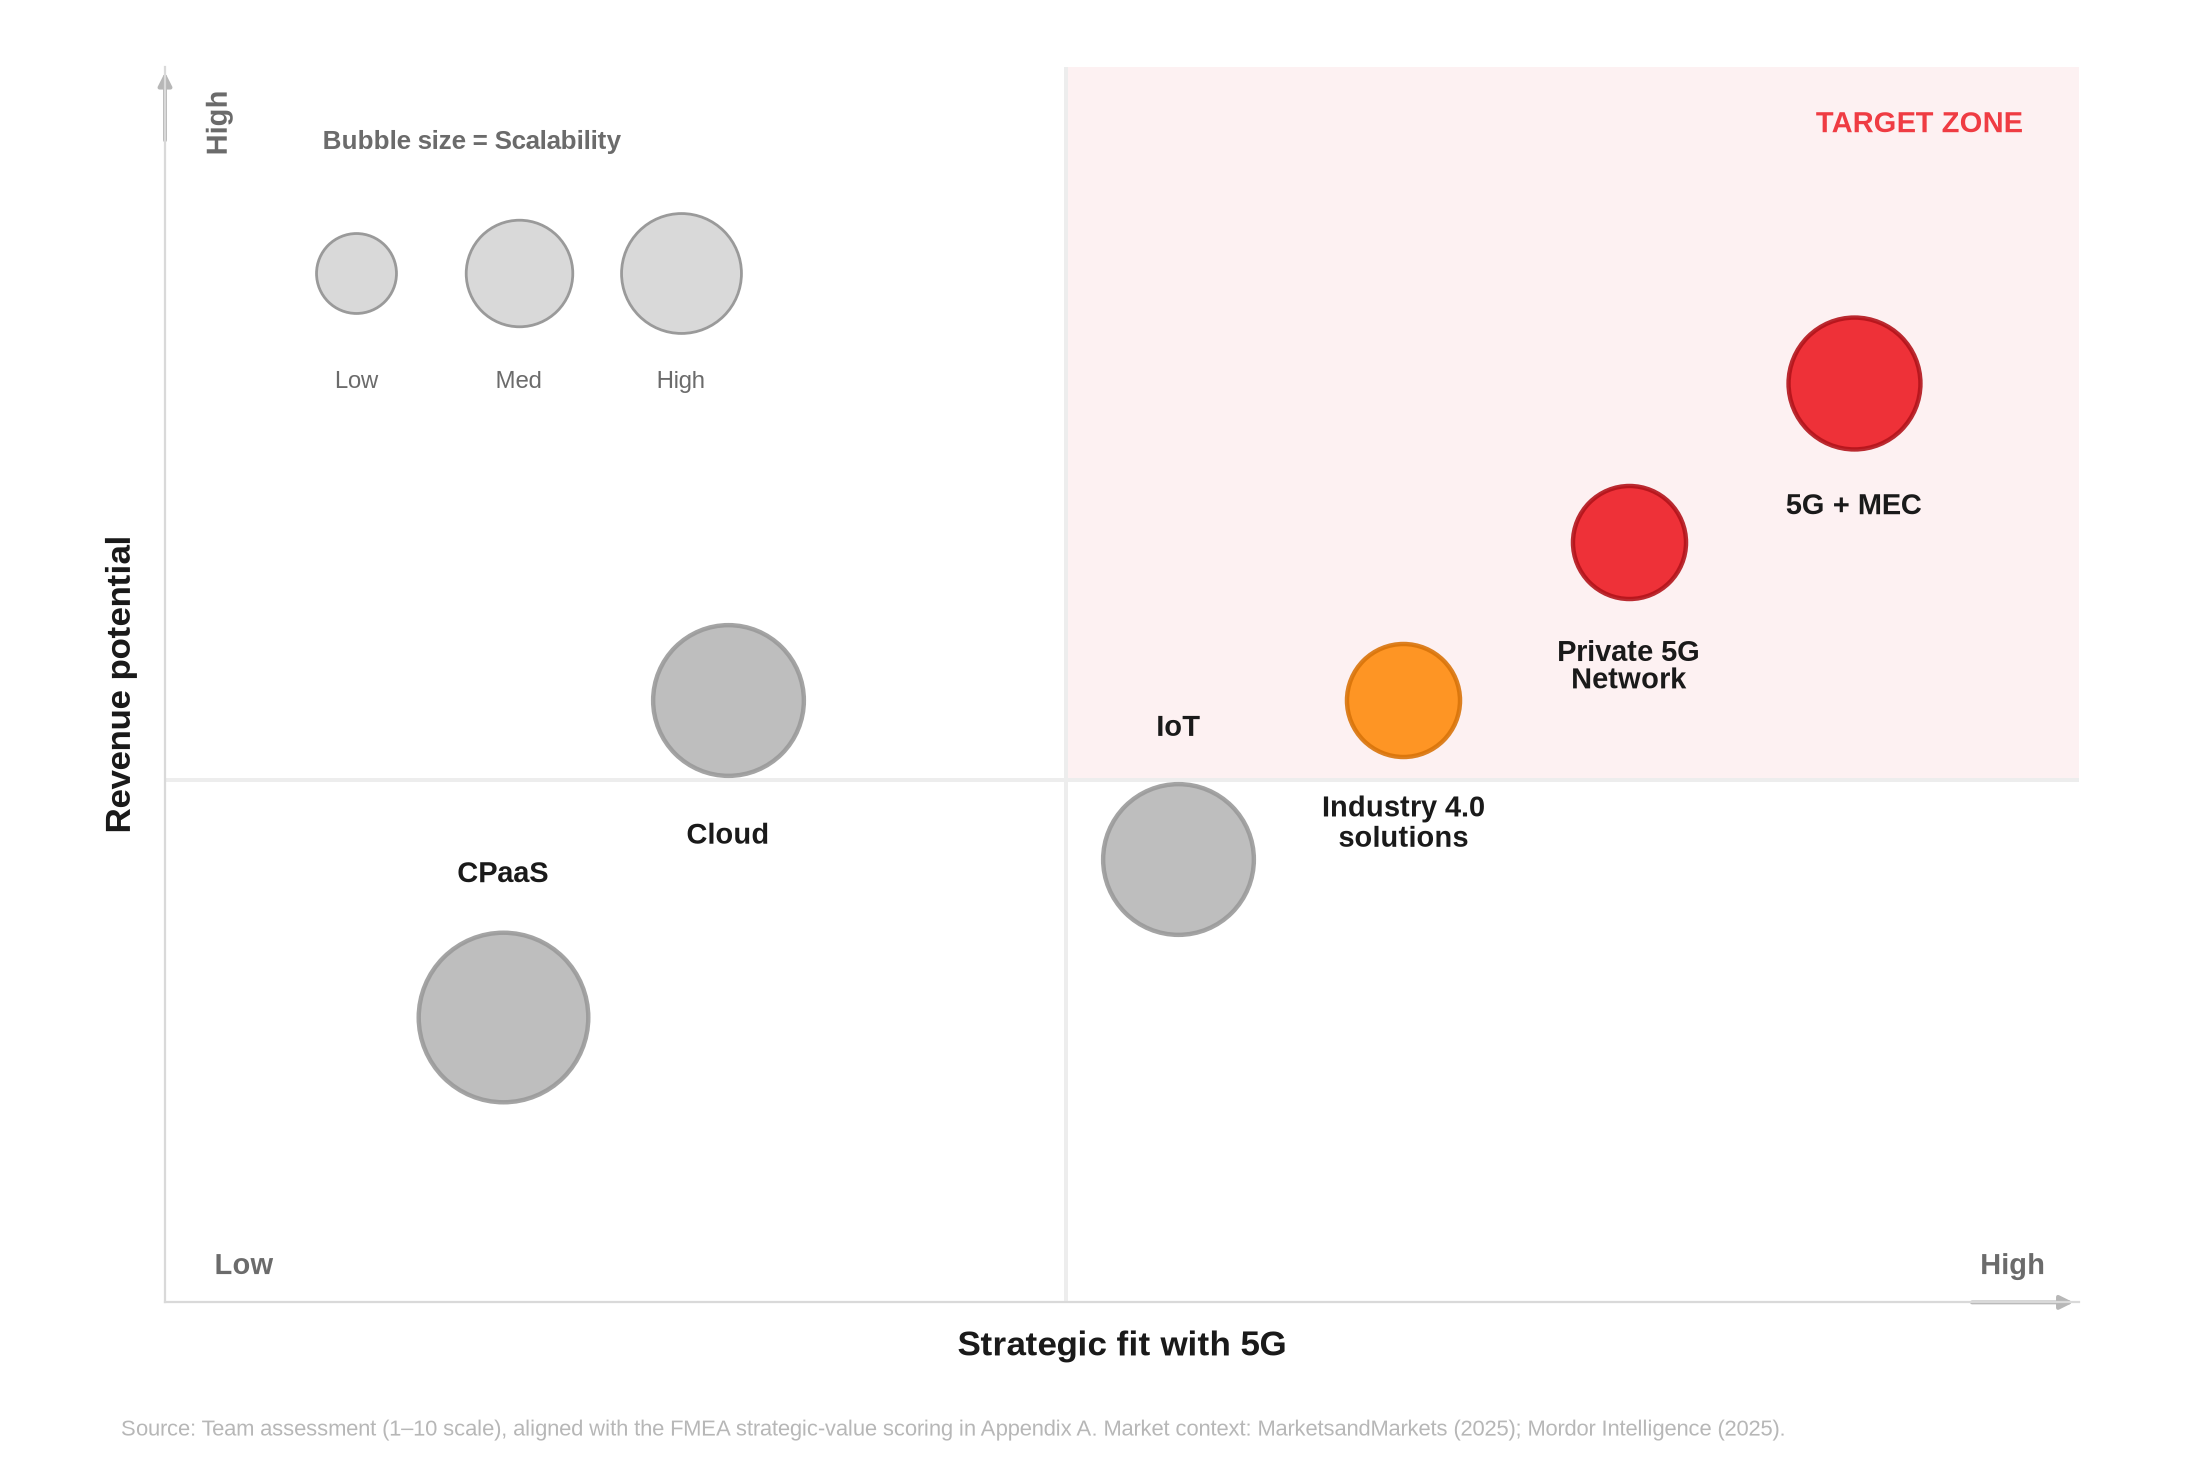
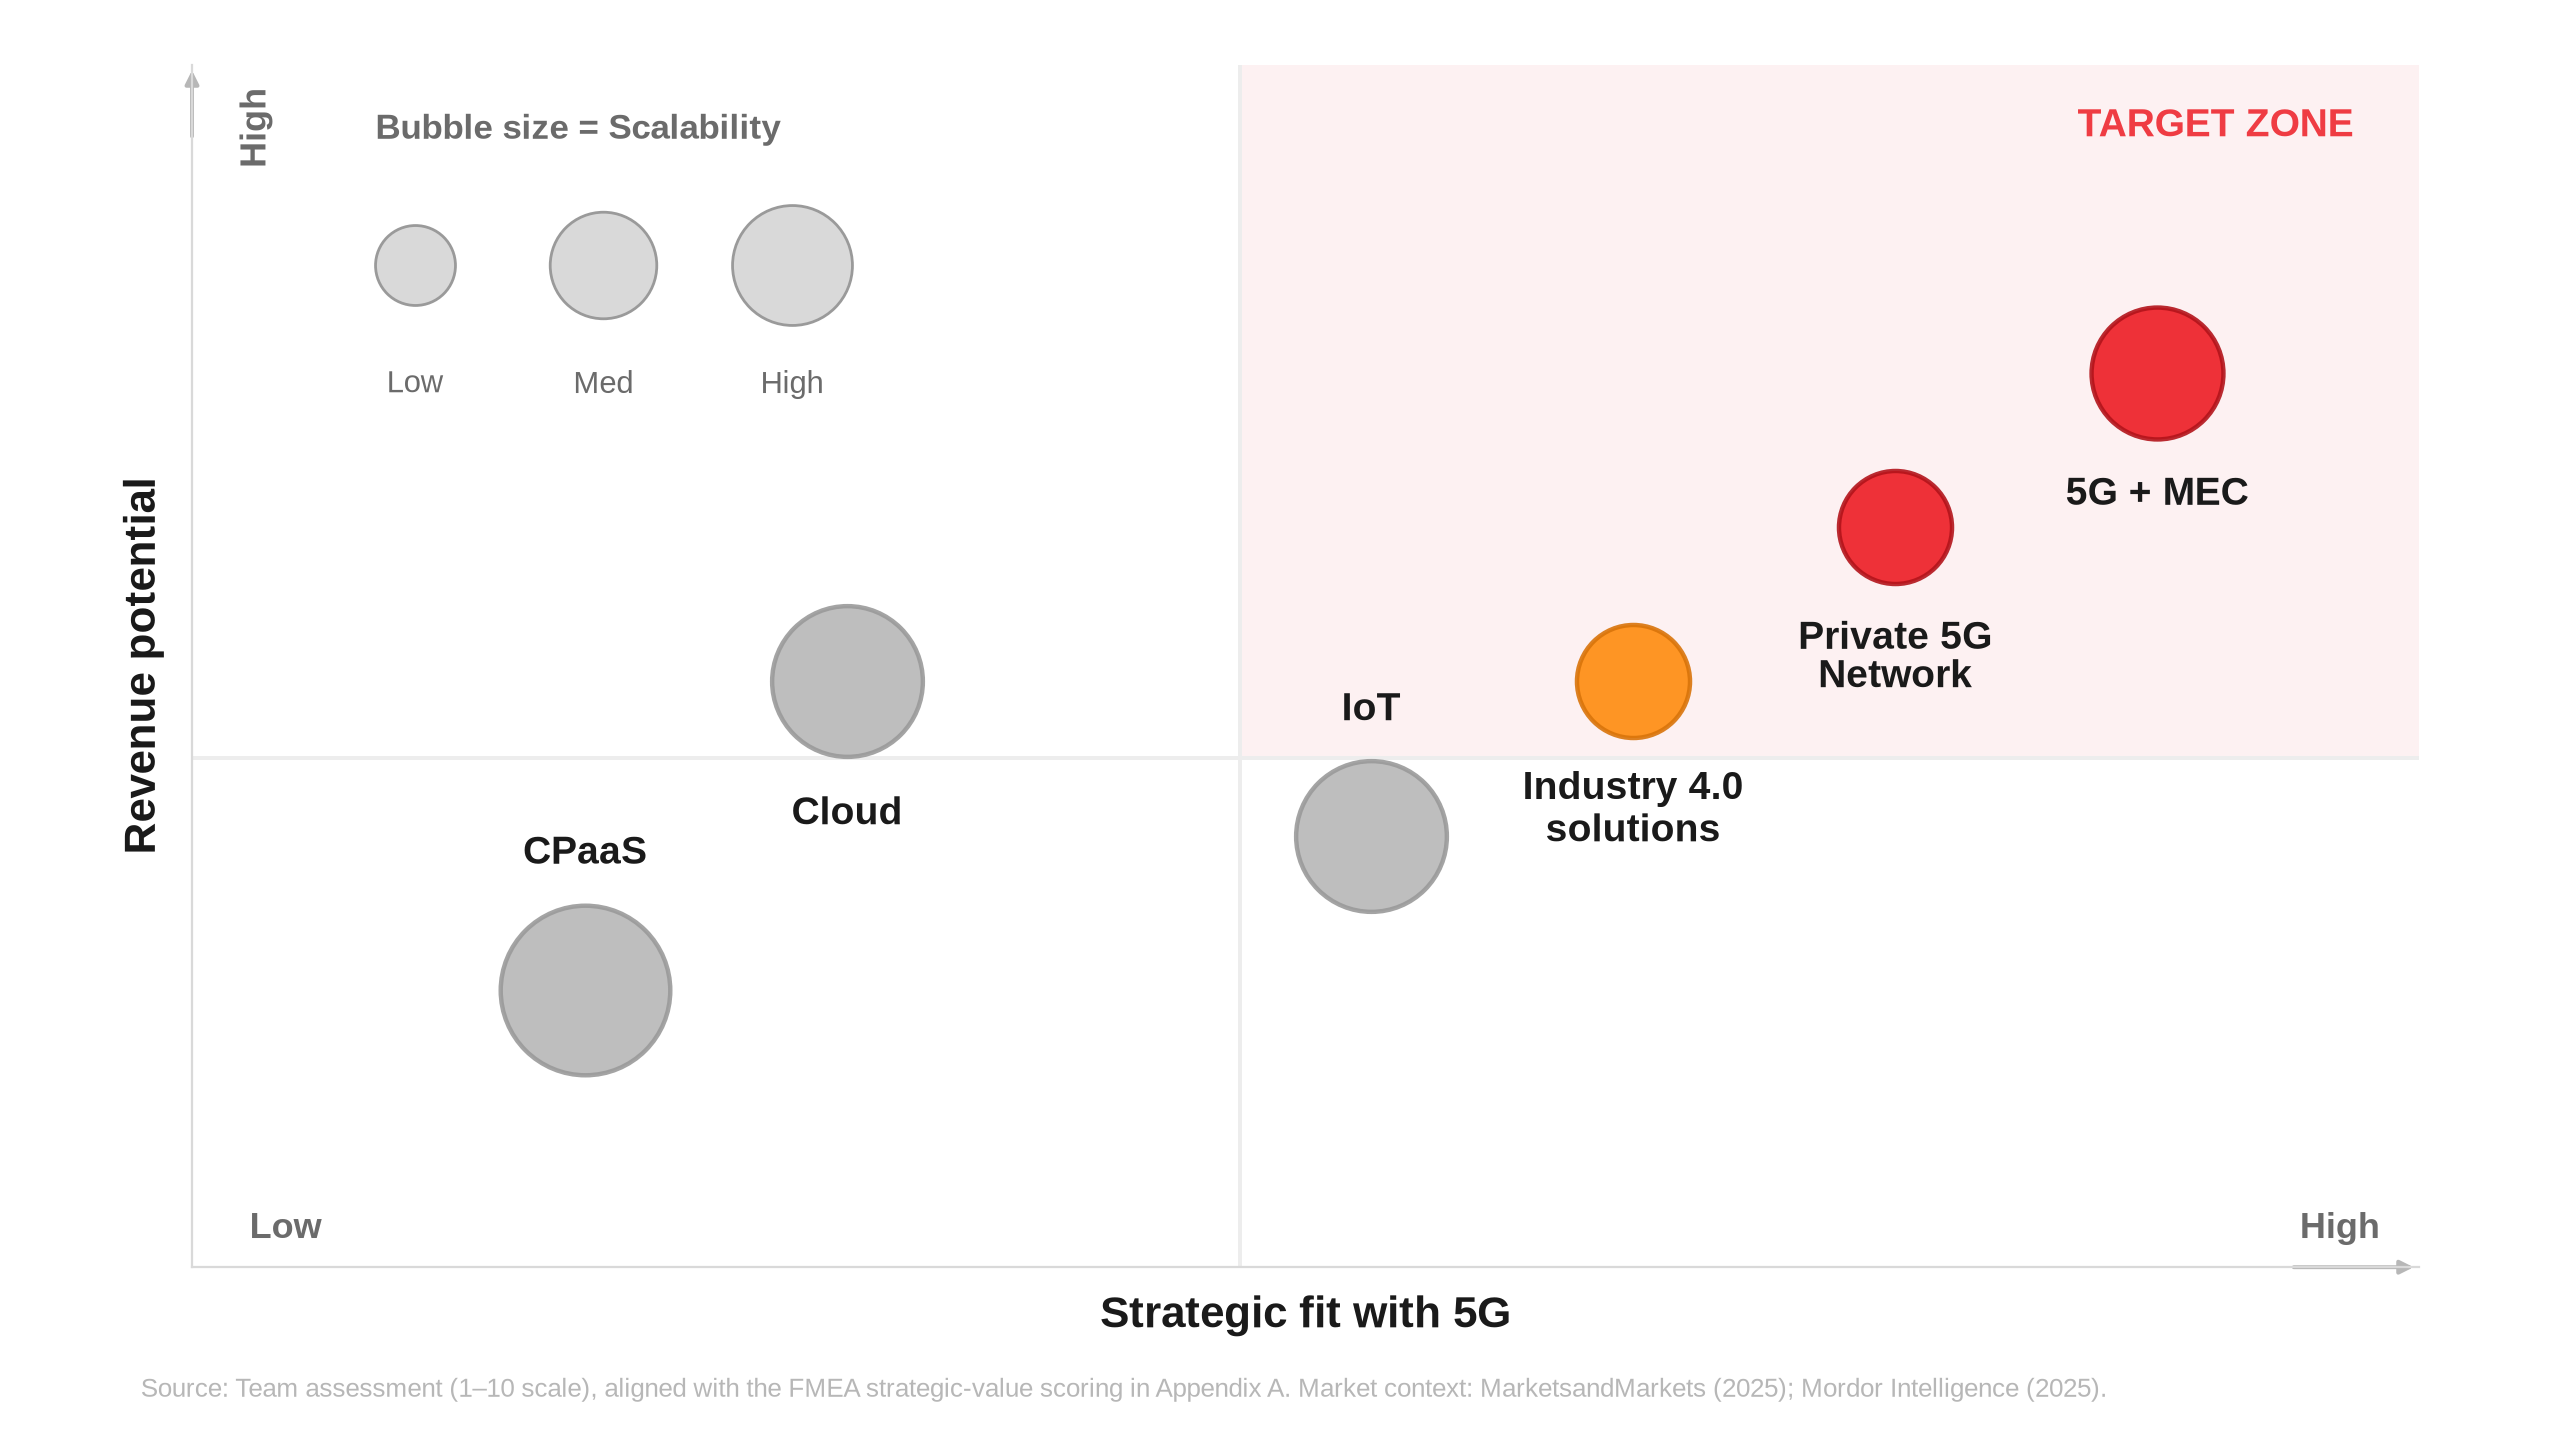
Make chart 1.2.2 16:9 landscape with larger type for slide decks
- Resize chart 2 to 12.8x7.2 (16:9) for PPT embedding
- Enlarge all chart-2 type: bubble labels, axis titles, corner cues,
  legend, TARGET ZONE, and source note
- Recalibrate the label-offset radius constant to the new aspect ratio so
  labels still sit just outside each bubble edge

Claude-Session: https://claude.ai/code/session_01B6MRhobNANg7BdfpNzZZuG

diff --git a/make_charts.py b/make_charts.py
@@ -132,8 +132,9 @@ print("chart 1 done")
 
 # ============================================================
 # CHART 2 (1.2.2) — Prioritization bubble matrix
+# 16:9 landscape for slide decks (PPT), with larger type.
 # ============================================================
-fig, ax = plt.subplots(figsize=(11, 7.4), dpi=200)
+fig, ax = plt.subplots(figsize=(12.8, 7.2), dpi=200)
 fig.patch.set_facecolor("white")
 ax.set_facecolor("white")
 
@@ -150,7 +151,7 @@ items = [
 xmid, ymid = 6.5, 6.5
 # target quadrant shading (top-right)
 ax.add_patch(Rectangle((xmid, ymid), 11-xmid, 11-ymid, facecolor=RED_TSEL, alpha=0.06, zorder=0))
-ax.text(10.75, 10.72, "TARGET ZONE", color=RED_TSEL, fontproperties=font(10.5, "SemiBold"),
+ax.text(10.75, 10.72, "TARGET ZONE", color=RED_TSEL, fontproperties=font(14, "SemiBold"),
         ha="right", va="top", alpha=0.85)
 
 # quadrant divider lines
@@ -164,9 +165,9 @@ def bsize(s):  # scalability -> area
     return (s ** 2) * 46
 
 # bubble radius (data units) from marker area, for placing labels clear of the edge.
-# ~50 pt per y data-unit given this figure size / axis range.
+# ~55.5 pt per y data-unit given this figure size / axis range.
 def r_data(s):
-    return math.sqrt(bsize(s) / math.pi) / 50.0
+    return math.sqrt(bsize(s) / math.pi) / 55.5
 
 LABEL_ABOVE = {"CPaaS", "IoT"}  # low bubbles: label above so it clears axis/source
 for name, xf, yr, sc, cat in items:
@@ -174,17 +175,17 @@ for name, xf, yr, sc, cat in items:
     ax.scatter([xf],[yr], s=bsize(sc), color=col, alpha=0.9,
                edgecolor=edge_map[cat], lw=1.6, zorder=5)
     # labels sit just OUTSIDE the bubble edge, dark ink, always fully legible
-    gap = r_data(sc) + 0.14
+    gap = r_data(sc) + 0.16
     if name in LABEL_ABOVE:
-        ax.text(xf, yr + gap, name, color=INK, fontproperties=font(10.5, "SemiBold"),
-                ha="center", va="bottom", zorder=8, linespacing=1.0)
+        ax.text(xf, yr + gap, name, color=INK, fontproperties=font(14, "SemiBold"),
+                ha="center", va="bottom", zorder=8, linespacing=1.05)
     else:
-        ax.text(xf, yr - gap, name, color=INK, fontproperties=font(10.5, "SemiBold"),
-                ha="center", va="top", zorder=8, linespacing=1.0)
+        ax.text(xf, yr - gap, name, color=INK, fontproperties=font(14, "SemiBold"),
+                ha="center", va="top", zorder=8, linespacing=1.05)
 
 # axis labels
-ax.set_xlabel("Strategic fit with 5G", fontproperties=font(12.5, "SemiBold"), color=INK, labelpad=10)
-ax.set_ylabel("Revenue potential", fontproperties=font(12.5, "SemiBold"), color=INK, labelpad=10)
+ax.set_xlabel("Strategic fit with 5G", fontproperties=font(16, "SemiBold"), color=INK, labelpad=10)
+ax.set_ylabel("Revenue potential", fontproperties=font(16, "SemiBold"), color=INK, labelpad=10)
 ax.set_xlim(2.5, 11); ax.set_ylim(3.2, 11)
 ax.set_xticks([]); ax.set_yticks([])
 # direction cues: small arrowheads at the high end of each axis (no → glyphs)
@@ -193,9 +194,9 @@ ax.annotate("", xy=(11.0, 3.2), xytext=(10.5, 3.2),
 ax.annotate("", xy=(2.5, 11.0), xytext=(2.5, 10.5),
             arrowprops=dict(arrowstyle="-|>", color=GRAY_MID, lw=1.4), zorder=2, clip_on=False)
 # low/high corner cues (slightly larger + semibold for legibility)
-ax.text(2.72, 3.34, "Low", color=GRAY_TXT, fontproperties=font(10.5, "SemiBold"), ha="left", va="bottom")
-ax.text(10.85, 3.34, "High", color=GRAY_TXT, fontproperties=font(10.5, "SemiBold"), ha="right", va="bottom")
-ax.text(2.68, 10.85, "High", color=GRAY_TXT, fontproperties=font(10.5, "SemiBold"), ha="left", va="top", rotation=90)
+ax.text(2.72, 3.34, "Low", color=GRAY_TXT, fontproperties=font(13, "SemiBold"), ha="left", va="bottom")
+ax.text(10.85, 3.34, "High", color=GRAY_TXT, fontproperties=font(13, "SemiBold"), ha="right", va="bottom")
+ax.text(2.68, 10.85, "High", color=GRAY_TXT, fontproperties=font(13, "SemiBold"), ha="left", va="top", rotation=90)
 
 for s in ["top","right"]:
     ax.spines[s].set_visible(False)
@@ -207,13 +208,13 @@ lx, ly = 3.35, 9.7
 for i,(s,lab) in enumerate([(6,"Low"),(8,"Med"),(9,"High")]):
     bx = lx + i*0.72
     ax.scatter([bx],[ly], s=bsize(s)*0.5, color=GRAY_LT, edgecolor="#9a9a9a", lw=1, zorder=3)
-    ax.text(bx, ly-0.62, lab, color=GRAY_TXT, fontproperties=font(8.5, "Medium"),
+    ax.text(bx, ly-0.68, lab, color=GRAY_TXT, fontproperties=font(11, "Medium"),
             ha="center", va="top", zorder=3)
-ax.text(lx-0.15, ly+0.78, "Bubble size = Scalability", color=GRAY_TXT,
-        fontproperties=font(9.5, "SemiBold"), ha="left")
+ax.text(lx-0.15, ly+0.82, "Bubble size = Scalability", color=GRAY_TXT,
+        fontproperties=font(12.5, "SemiBold"), ha="left")
 
 fig.text(0.055, 0.030, "Source: Team assessment (1\u201310 scale), aligned with the FMEA strategic-value scoring in Appendix A. Market context: MarketsandMarkets (2025); Mordor Intelligence (2025).",
-         fontproperties=font(8), color=GRAY_MID, ha="left")
+         fontproperties=font(9.5), color=GRAY_MID, ha="left")
 
 plt.subplots_adjust(left=0.075, right=0.945, top=0.955, bottom=0.12)
 fig.savefig(f"{OUT}/1_2_2_technology_prioritization_matrix.png", dpi=200, facecolor="white")
